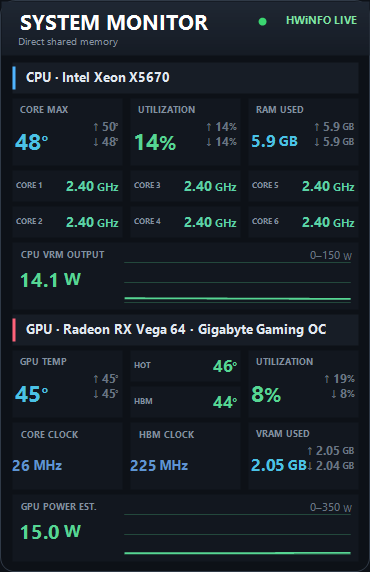
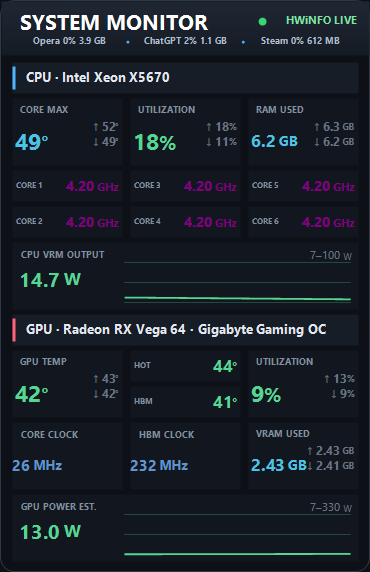
Add RAM-ranked process activity strip

diff --git a/src/ProcessUsageSampler.cs b/src/ProcessUsageSampler.cs
@@ -1,0 +1,125 @@
+using System;
+using System.Collections.Generic;
+using System.Diagnostics;
+using System.Globalization;
+
+namespace VegaDesktopWidget
+{
+    internal sealed class ProcessUsage
+    {
+        public string Name;
+        public double CpuPercent;
+        public long WorkingSetBytes;
+
+        public string CompactText
+        {
+            get
+            {
+                double gib = WorkingSetBytes / 1073741824.0;
+                string memory = gib >= 1.0
+                    ? gib.ToString("0.0", CultureInfo.InvariantCulture) + " GB"
+                    : Math.Max(1.0, WorkingSetBytes / 1048576.0).ToString("0", CultureInfo.InvariantCulture) + " MB";
+                return Name + " " + CpuPercent.ToString("0", CultureInfo.InvariantCulture) + "% " + memory;
+            }
+        }
+    }
+
+    internal sealed class ProcessUsageSampler
+    {
+        private sealed class ProcessPoint { public double CpuMilliseconds; }
+        private sealed class Aggregate { public string Name; public double CpuPercent; public long WorkingSetBytes; }
+
+        private readonly Dictionary<int, ProcessPoint> previous = new Dictionary<int, ProcessPoint>();
+        private List<ProcessUsage> cached = new List<ProcessUsage>();
+        private long previousTimestamp;
+        private long lastSampleTimestamp;
+        private readonly int ownProcessId = Process.GetCurrentProcess().Id;
+
+        public List<ProcessUsage> SampleTopByMemory(int count)
+        {
+            long now = Stopwatch.GetTimestamp();
+            if (lastSampleTimestamp != 0 && SecondsBetween(lastSampleTimestamp, now) < 0.75) return new List<ProcessUsage>(cached);
+
+            double elapsedMilliseconds = previousTimestamp == 0 ? 0.0 : SecondsBetween(previousTimestamp, now) * 1000.0;
+            Dictionary<int, ProcessPoint> next = new Dictionary<int, ProcessPoint>();
+            Dictionary<string, Aggregate> groups = new Dictionary<string, Aggregate>(StringComparer.OrdinalIgnoreCase);
+
+            foreach (Process process in Process.GetProcesses())
+            {
+                try
+                {
+                    int id = process.Id;
+                    if (id == 0 || id == ownProcessId) continue;
+                    string name = FriendlyName(process.ProcessName);
+                    long memory = process.WorkingSet64;
+                    double cpuMilliseconds = process.TotalProcessorTime.TotalMilliseconds;
+                    if (memory <= 0 || name.Length == 0) continue;
+
+                    double cpuPercent = 0.0;
+                    ProcessPoint old;
+                    if (elapsedMilliseconds > 0.0 && previous.TryGetValue(id, out old) && cpuMilliseconds >= old.CpuMilliseconds)
+                        cpuPercent = (cpuMilliseconds - old.CpuMilliseconds) * 100.0 / (elapsedMilliseconds * Math.Max(1, Environment.ProcessorCount));
+                    cpuPercent = Math.Max(0.0, Math.Min(100.0, cpuPercent));
+                    next[id] = new ProcessPoint { CpuMilliseconds = cpuMilliseconds };
+
+                    Aggregate aggregate;
+                    if (!groups.TryGetValue(name, out aggregate))
+                    {
+                        aggregate = new Aggregate { Name = name };
+                        groups[name] = aggregate;
+                    }
+                    aggregate.WorkingSetBytes += memory;
+                    aggregate.CpuPercent += cpuPercent;
+                }
+                catch { }
+                finally { process.Dispose(); }
+            }
+
+            previous.Clear();
+            foreach (KeyValuePair<int, ProcessPoint> pair in next) previous[pair.Key] = pair.Value;
+            previousTimestamp = now;
+            lastSampleTimestamp = now;
+
+            List<Aggregate> ordered = new List<Aggregate>(groups.Values);
+            ordered.Sort(delegate(Aggregate a, Aggregate b) {
+                int byMemory = b.WorkingSetBytes.CompareTo(a.WorkingSetBytes);
+                return byMemory != 0 ? byMemory : StringComparer.OrdinalIgnoreCase.Compare(a.Name, b.Name);
+            });
+
+            List<ProcessUsage> result = new List<ProcessUsage>();
+            for (int i = 0; i < ordered.Count && i < Math.Max(0, count); i++)
+            {
+                Aggregate item = ordered[i];
+                result.Add(new ProcessUsage {
+                    Name = item.Name,
+                    CpuPercent = Math.Min(100.0, item.CpuPercent),
+                    WorkingSetBytes = item.WorkingSetBytes
+                });
+            }
+            cached = result;
+            return new List<ProcessUsage>(cached);
+        }
+
+        private static double SecondsBetween(long first, long second) { return (second - first) / (double)Stopwatch.Frequency; }
+
+        private static string FriendlyName(string processName)
+        {
+            string lower = (processName ?? "").Trim().ToLowerInvariant();
+            if (lower == "opera") return "Opera";
+            if (lower == "opera_gx") return "Opera GX";
+            if (lower == "chrome") return "Chrome";
+            if (lower == "msedge") return "Edge";
+            if (lower == "firefox") return "Firefox";
+            if (lower == "code") return "VS Code";
+            if (lower == "codex") return "Codex";
+            if (lower == "chatgpt") return "ChatGPT";
+            if (lower == "steam" || lower == "steamwebhelper") return "Steam";
+            if (lower == "dwm") return "DWM";
+            if (lower == "explorer") return "Explorer";
+            if (lower == "hwinfo64") return "HWiNFO";
+            if (lower == "radeonsoftware") return "Radeon";
+            string cleaned = lower.Replace('_', ' ').Replace('-', ' ').Trim();
+            return cleaned.Length == 0 ? "" : CultureInfo.InvariantCulture.TextInfo.ToTitleCase(cleaned);
+        }
+    }
+}

diff --git a/src/WidgetFormV2.cs b/src/WidgetFormV2.cs
@@ -14,8 +14,10 @@ namespace VegaDesktopWidget
         private const int DashboardTop = 62, SlotHeight = 31, RowGap = 5, ColumnGap = 8, BottomPadding = 11;
         private readonly HWiNFOReader reader = new HWiNFOReader();
         private readonly Timer timer = new Timer();
+        private readonly ProcessUsageSampler processSampler = new ProcessUsageSampler();
         private WidgetConfig config;
         private List<SensorReading> readings = new List<SensorReading>();
+        private List<ProcessUsage> topProcesses = new List<ProcessUsage>();
         private readonly Dictionary<string, List<double>> history = new Dictionary<string, List<double>>(StringComparer.OrdinalIgnoreCase);
         private readonly Dictionary<string, MetricExtrema> extrema = new Dictionary<string, MetricExtrema>(StringComparer.OrdinalIgnoreCase);
         private readonly WidgetComponents components = new WidgetComponents();
@@ -60,7 +62,7 @@ namespace VegaDesktopWidget
 
         private void RefreshSensors()
         {
-            readings = reader.Read(out status); ramAvailable = PhysicalMemory.Read(out ramUsed, out ramTotal);
+            readings = reader.Read(out status); ramAvailable = PhysicalMemory.Read(out ramUsed, out ramTotal); topProcesses = processSampler.SampleTopByMemory(3);
             foreach (DashboardItem item in config.ActiveDashboard)
             {
                 if (item.BoxType == DashboardBoxType.Section) continue;
@@ -107,7 +109,36 @@ namespace VegaDesktopWidget
             DrawText(g, "SYSTEM MONITOR", 16, FontStyle.Bold, Color.White, new RectangleF(16, 10, CanvasWidth - 150, 24), StringAlignment.Near);
             bool live = readings.Count > 0; using (SolidBrush dot = new SolidBrush(live ? Color.FromArgb(59, 214, 113) : Color.FromArgb(255, 184, 77))) g.FillEllipse(dot, CanvasWidth - 112, 17, 8, 8);
             DrawText(g, live ? "HWiNFO LIVE" : "HWiNFO WAIT", 8, FontStyle.Bold, live ? Color.FromArgb(126, 230, 163) : Color.FromArgb(255, 199, 102), new RectangleF(CanvasWidth - 98, 12, 86, 18), StringAlignment.Far);
-            DrawText(g, live ? "Direct shared memory" : status, 7.5f, FontStyle.Regular, Color.FromArgb(135, 148, 164), new RectangleF(16, 34, CanvasWidth - 28, 14), StringAlignment.Near);
+            DrawProcessStrip(g, new RectangleF(12, 34, CanvasWidth - 24, 14));
+        }
+
+        private void DrawProcessStrip(Graphics g, RectangleF area)
+        {
+            if (topProcesses.Count == 0)
+            {
+                DrawText(g, "Collecting process activity", 7f, FontStyle.Regular, Color.FromArgb(135, 148, 164), area, StringAlignment.Near);
+                return;
+            }
+            int count = Math.Min(3, topProcesses.Count);
+            float cellWidth = area.Width / count;
+            for (int i = 0; i < count; i++)
+            {
+                RectangleF cell = new RectangleF(area.X + i * cellWidth + 3, area.Y, cellWidth - 6, area.Height);
+                DrawTextFit(g, topProcesses[i].CompactText, 7f, 5.5f, FontStyle.Bold, Color.FromArgb(173, 188, 207), cell, StringAlignment.Center);
+                if (i < count - 1) using (SolidBrush dot = new SolidBrush(Color.FromArgb(64, 183, 255))) g.FillEllipse(dot, area.X + (i + 1) * cellWidth - 1.5f, area.Y + 6f, 3f, 3f);
+            }
+        }
+
+        private static void DrawTextFit(Graphics g, string text, float preferredSize, float minimumSize, FontStyle style, Color color, RectangleF area, StringAlignment align)
+        {
+            float size = preferredSize;
+            while (size > minimumSize)
+            {
+                using (Font probe = new Font("Segoe UI", size, style, GraphicsUnit.Point))
+                    if (g.MeasureString(text ?? "", probe).Width <= area.Width) break;
+                size -= 0.25f;
+            }
+            DrawText(g, text, Math.Max(minimumSize, size), style, color, area, align);
         }
 
         private void DrawDashboard(Graphics g)

diff --git a/src/Properties/AssemblyInfo.cs b/src/Properties/AssemblyInfo.cs
@@ -4,5 +4,5 @@ using System.Reflection;
 [assembly: AssemblyDescription("Modular HWiNFO desktop hardware monitor")]
 [assembly: AssemblyCompany("")]
 [assembly: AssemblyProduct("System Monitor Widget")]
-[assembly: AssemblyVersion("2.0.0.0")]
-[assembly: AssemblyFileVersion("2.0.0.0")]
+[assembly: AssemblyVersion("2.1.0.0")]
+[assembly: AssemblyFileVersion("2.1.0.0")]

diff --git a/README.md b/README.md
@@ -13,6 +13,7 @@ A lightweight, modular Windows desktop hardware monitor powered by HWiNFO shared
 ## Features
 
 - Fully configurable 3-column and 4-column dashboards.
+- Live top-three process strip, ranked by RAM and showing aggregated CPU and memory usage.
 - Add any sensor exposed through HWiNFO shared memory.
 - Five reusable component types: Big metric, Horizontal spec, Vertical spec, Graph, and Section.
 - Drag-and-drop placement with grid snapping and overlap prevention.
@@ -51,7 +52,7 @@ Run PowerShell from the repository root:
 .\build.ps1
 ```
 
-The compiled executable is written to `artifacts\SystemMonitorWidget-v2.0.exe`.
+The compiled executable is written to `artifacts\SystemMonitorWidget-v2.1.exe`.
 
 ## Local data
 
@@ -59,8 +60,8 @@ Widget settings stay in the current Windows user's local application-data folder
 
 ## Quick start
 
-1. Download `SystemMonitorWidget-v2.0.exe` from the [latest release](../../releases/latest).
+1. Download `SystemMonitorWidget-v2.1.exe` from the [latest release](../../releases/latest).
 2. Open HWiNFO64 settings and enable **Shared Memory Support**.
 3. Start HWiNFO sensors.
-4. Run `SystemMonitorWidget-v2.0.exe`.
+4. Run `SystemMonitorWidget-v2.1.exe`.
 5. Right-click the widget and choose **Configure dashboard** to add sensors, select component types, arrange the grid, and customize colors.
